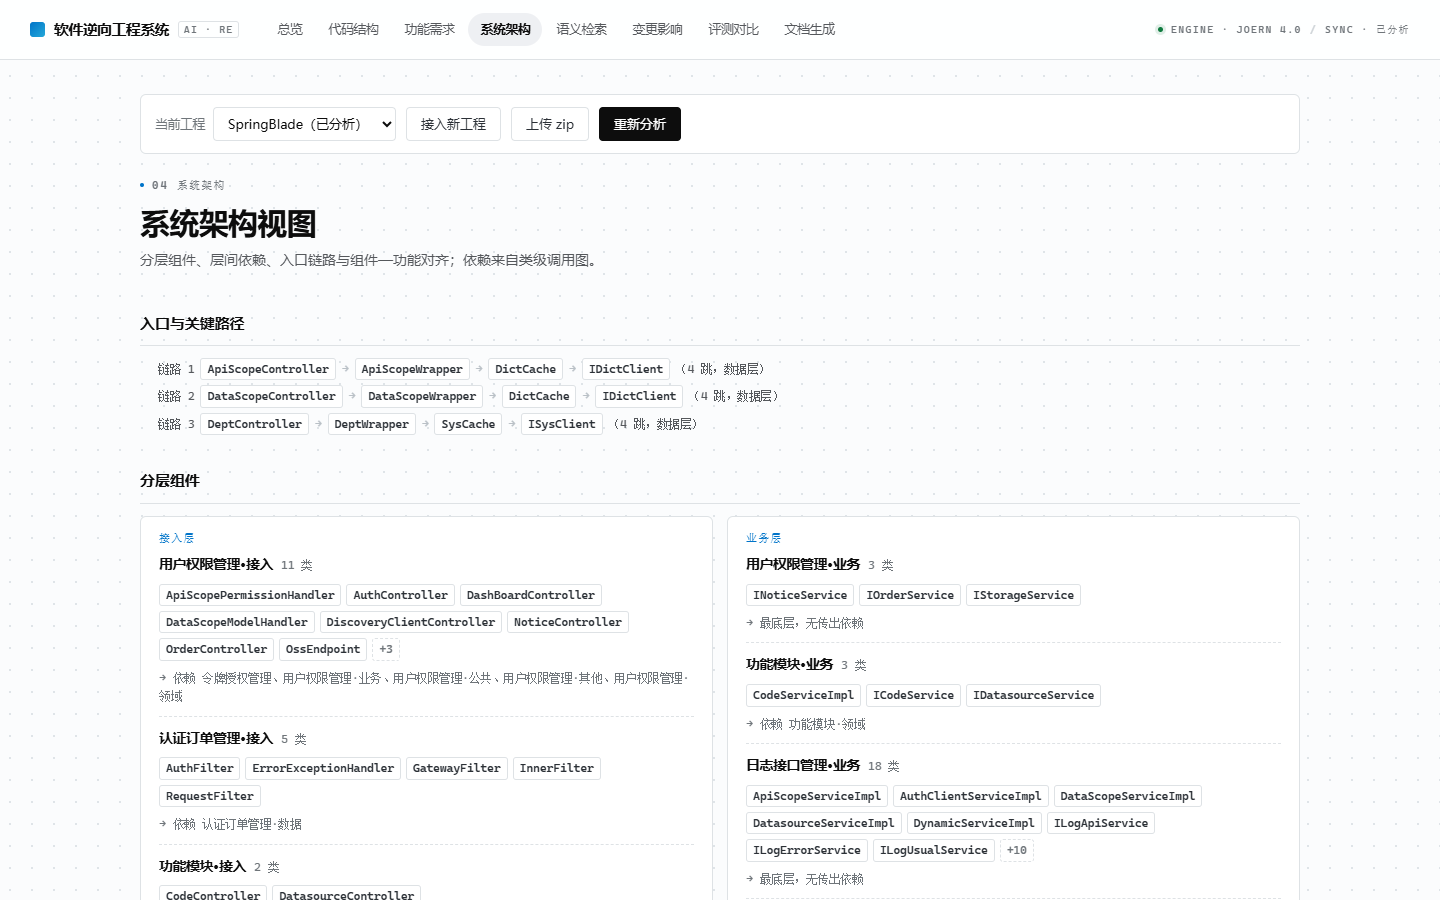
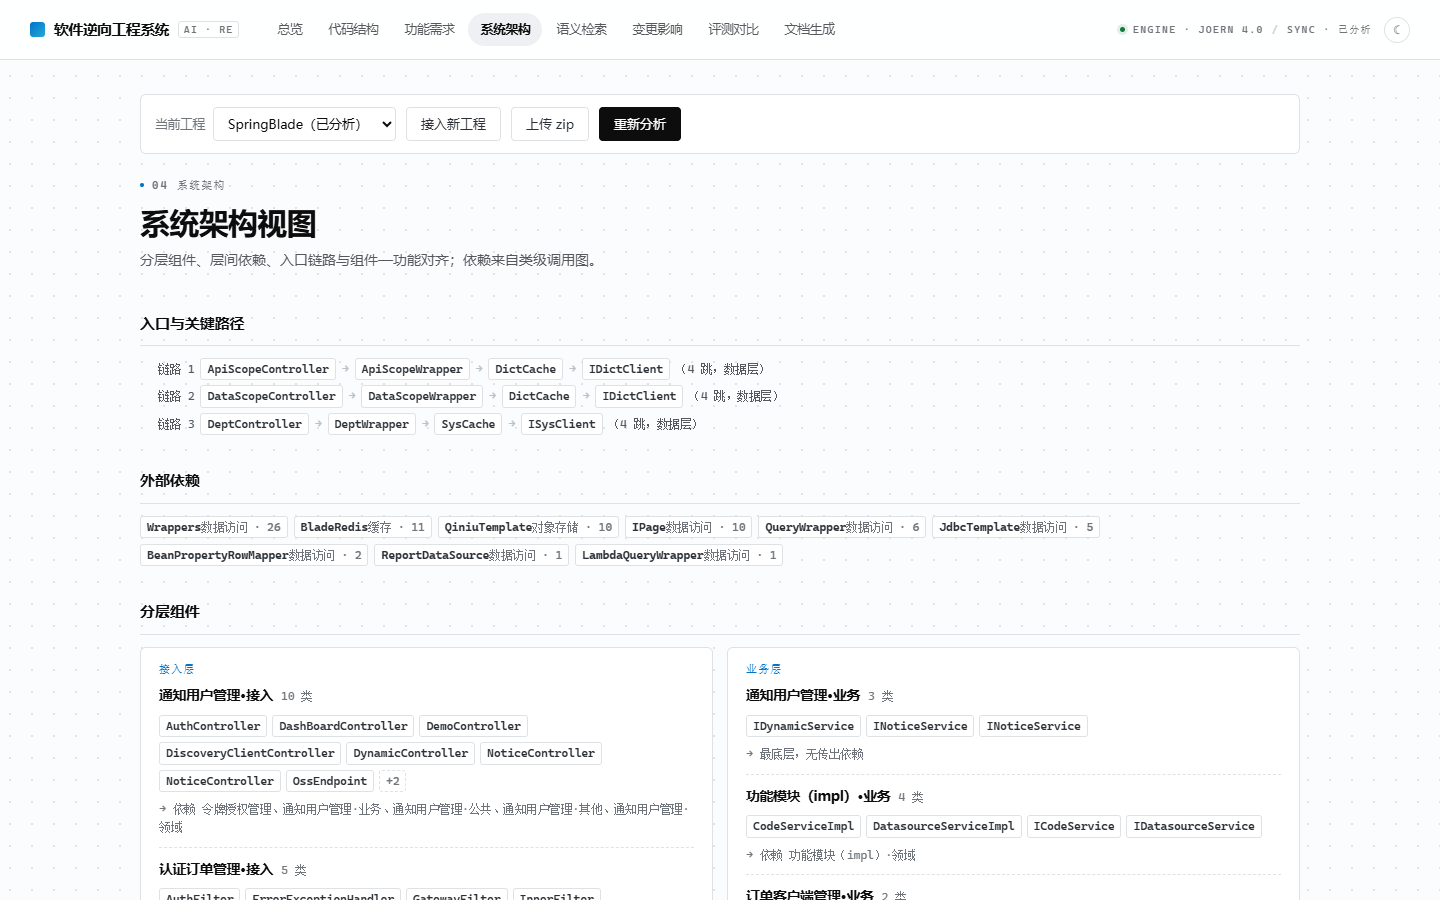
feat: 方法级变更影响、外部依赖识别、工具方法过滤
- impact 支持 ?method=，方法级只从该方法的调用方开始扩散，起点显示 类名.方法名
- externals 表 + _external_kind 按包名整段前缀归类（缓存/消息/对象存储/数据访问），架构页新增外部依赖区块
- 功能条目排除 *Util/*Utils/*Helper/*Constant 下的工具方法
- 文档与配图同步：README 接口表/前端说明/已知边界，设计文档能力表与 10.3/10.5 节，重拍 architecture.png、impact.png
- .gitignore 忽略截图工具的 *-report.json

diff --git a/demo/frontend/assets/app.js b/demo/frontend/assets/app.js
@@ -10,6 +10,7 @@ const state = {
   search: { q: '', mode: 'fusion' },
   graph: { op: 'callers', cls: 0, from: '', to: '' },
   impactClass: 0,
+  impactMethod: "",
   docId: 0,
   docKind: '',
   searchSel: 0,
@@ -610,6 +611,12 @@ async function renderArchitecture() {
       ${chain.map((node) => `<span class="chip">${esc(node.name)}</span>`).join('<span class="arrow">→</span>')}
       <span class="muted">（${chain.length} 跳，${esc(chain[chain.length - 1].layer)}）</span></li>`).join('');
 
+  const externals = data.externals || [];
+  const externalHtml = externals.length
+    ? `<p class="chips externals">${externals.map((x) =>
+        `<span class="chip"><b>${esc(x.name)}</b><em>${esc(x.kind)} · ${x.count}</em></span>`).join('')}</p>`
+    : `<p class="muted">没有识别到跨边界的外部依赖调用。</p>`;
+
   const matrix = data.matrix || { layers: [], cells: [] };
   const matrixHead = matrix.layers.map((name) => `<th>${esc(name.replace('层', ''))}</th>`).join('');
   const matrixRows = matrix.layers.map((name, i) => `
@@ -625,6 +632,8 @@ async function renderArchitecture() {
       <p class="muted">分层组件、层间依赖、入口链路与组件—功能对齐；依赖来自类级调用图。</p></div></section>
     <h2>入口与关键路径</h2>
     <ul class="plain chains">${entries || '<li class="muted">暂无关键路径</li>'}</ul>
+    <h2>外部依赖</h2>
+    ${externalHtml}
     <h2>分层组件</h2>
     <div class="layers">${cols || '<p class="muted">暂无架构视图</p>'}</div>
     <details class="fold">
@@ -847,14 +856,25 @@ async function renderImpact() {
     id: c.id, name: c.name, layer: c.layer, module: moduleName.get(c.module_id) || '',
   })));
   classes.sort((a, b) => (a.module + a.name).localeCompare(b.module + b.name, 'zh'));
+  // 类 → 方法名，供「方法级影响」下拉用；构造方法与编译器生成的方法不列
+  const methodsOf = new Map();
+  (structure.files || []).forEach((f) => (f.classes || []).forEach((c) => {
+    methodsOf.set(c.id, (c.methods || []).map((m) => m.name || '')
+      .filter((n) => n && !n.startsWith('<')).sort((a, b) => a.localeCompare(b)));
+  }));
   if (!state.impactClass && classes.length) {
     state.impactClass = data.project.impact_hot || classes[0].id;
   }
   const options = classes.map((c) =>
     `<option value="${c.id}" ${c.id === state.impactClass ? 'selected' : ''}>${esc(c.module)} / ${esc(c.name)}</option>`).join('');
-  let result = '<p class="muted">选一个类，看改动会波及哪些模块与功能。</p>';
+  let result = `<p class="muted">选一个类或方法，看改动会波及哪些模块与功能。</p>`;
+  const methodNames = methodsOf.get(state.impactClass) || [];
+  if (state.impactMethod && !methodNames.includes(state.impactMethod)) state.impactMethod = "";
+  const methodOptions = ["", ...methodNames].map((name) =>
+    `<option value="${esc(name)}" ${name === state.impactMethod ? "selected" : ""}>${name ? esc(name) : "全部方法（类级影响）"}</option>`).join("");
   if (state.impactClass) {
-    const r = await api(`/api/projects/${state.pid}/impact/${state.impactClass}`);
+    const query = state.impactMethod ? `?method=${encodeURIComponent(state.impactMethod)}` : "";
+    const r = await api(`/api/projects/${state.pid}/impact/${state.impactClass}${query}`);
     const hops = r.max_hop || 0;
     const byHop = Array.from({ length: hops + 1 }, () => []);
     (r.classes || []).forEach((c) => byHop[Math.min(c.hop || 0, hops)].push(c));
@@ -862,8 +882,8 @@ async function renderImpact() {
       <div class="hop-col origin">
         <p class="hop-head">起点 · 1 个类</p>
         <div class="hop-item"><b><a class="jump" href="#/structure?focus=${encodeURIComponent(r.origin.name)}"
-          title="在代码结构中定位">${esc(r.origin.name)}</a></b>
-          <small>${esc(r.origin.layer || '')}</small></div>
+          title="在代码结构中定位">${esc(r.origin.name)}${r.origin.method ? '.' + esc(r.origin.method) : ''}</a></b>
+          <small>${esc(r.origin.layer || '')}${r.origin.method ? ' · 方法级' : ''}</small></div>
       </div>` + (hops === 0
       ? '<div class="hop-col"><p class="hop-head">无调用方</p><div class="hop-item"><small>没有类调用它，改动只影响自身。</small></div></div>'
       : byHop.slice(1).map((list, i) => `
@@ -896,10 +916,19 @@ async function renderImpact() {
   draw(`
     <section class="head"><div><h1>变更影响分析</h1>
       <p class="muted">沿调用图反向查找：改这个类，哪些类、模块与功能要一起验证。</p></div></section>
-    <div class="form-panel inline"><label>起点类<select id="impact-select">${options}</select></label></div>
+    <div class="form-panel inline">
+      <label>起点类<select id="impact-select">${options}</select></label>
+      <label>方法<select id="impact-method">${methodOptions}</select></label>
+    </div>
     ${result}`);
   const sel = document.getElementById('impact-select');
-  if (sel) sel.onchange = (e) => { state.impactClass = Number(e.target.value); renderImpact(); };
+  if (sel) sel.onchange = (e) => {
+    state.impactClass = Number(e.target.value);
+    state.impactMethod = "";
+    renderImpact();
+  };
+  const methodSel = document.getElementById('impact-method');
+  if (methodSel) methodSel.onchange = (e) => { state.impactMethod = e.target.value; renderImpact(); };
 }
 
 /* ------------------------------------------------------------------ 视图：对比 */

diff --git a/demo/frontend/assets/style.css b/demo/frontend/assets/style.css
@@ -626,3 +626,8 @@ details.hl > summary { border-radius: 3px; }
 .fields { display: flex; flex-wrap: wrap; gap: 6px; margin: 2px 0 10px 18px; }
 .chip.field { color: var(--muted); }
 .chip.field b { color: var(--ink); font-weight: 600; }
+
+/* 外部依赖 chip：名字 + 类型与次数 */
+.chips.externals { margin: 2px 0 6px; }
+.chips.externals .chip { gap: 6px; }
+.chips.externals .chip em { font-style: normal; color: var(--faint); }

diff --git a/demo/backend/app/core/pipeline.py b/demo/backend/app/core/pipeline.py
@@ -16,6 +16,8 @@ DEP_WEIGHT = 0.4
 
 LAYER_RANK = {"接入层": 0, "业务层": 1, "数据层": 2, "公共层": 3, "领域层": 4, "其他": 5}
 GENERIC_LABELS = {"处理", "列出", "保存", "更新", "查询", "删除", "添加", "查看", "设置"}
+# 工具类里的方法不算「功能条目」：简介要求过滤访问器与工具方法
+TOOL_CLASS_RE = re.compile(r"(Util|Utils|Helper|Constant|Constants)$")
 STEP_PERCENT = {
     "": 0, "扫描源码": 8, "解析结构": 26, "解析调用": 42, "社区发现": 58,
     "归纳功能": 70, "恢复架构": 82, "计算指标": 92, "导出代码属性图": 97, "完成": 100,
@@ -78,6 +80,15 @@ def _store_structure(pid):
     db.execute_many("INSERT INTO calls(project_id, caller_id, callee_name, qualifier, line) "
                     "VALUES(?,?,?,?,?)", call_rows)
     _resolve_calls(pid)
+    # 解析不到、但能看出是基础设施的调用，记为外部依赖
+    external_rows = []
+    for row in db.query("SELECT callee_name, qualifier FROM calls WHERE project_id=? "
+                        "AND callee_id IS NULL", (pid,)):
+        token = row["qualifier"] or row["callee_name"]
+        kind = _external_kind(token)
+        if kind != "第三方库":
+            external_rows.append((token, kind))
+    _store_externals(pid, external_rows)
     return len(class_rows), len(rows), len(call_rows)
 
 
@@ -312,7 +323,8 @@ def _store_functions(pid):
             "WHERE m.project_id=? AND c.module_id=?", (pid, module["id"]))
         candidates = [m for m in methods
                       if m["is_public"] and not _is_accessor(m)
-                      and not (m["name"] or "").startswith("<")]
+                      and not (m["name"] or "").startswith("<")
+                      and not TOOL_CLASS_RE.search(m["class_name"])]
         candidates.sort(key=lambda m: (LAYER_RANK.get(m["layer"], 9), len(m["name"]), m["id"]))
         for method in candidates[:8]:
             ranked.append({"module": module, "method": method})
@@ -560,18 +572,60 @@ def _store_joern(pid, data, docs=None):
                     "VALUES(?,?,?,?,?,?,?,?,?,?,?,?,?)", method_rows)
 
     call_rows = []
+    external_rows = []
     for call in data["calls"]:
         caller = full_index.get(_class_full_name(call["caller"]))
         if not caller:
             continue
         callee = full_index.get(_class_full_name(call["callee"]))
         call_rows.append((pid, caller, call["name"], callee, call["line"]))
+        if callee is None:
+            raw = call.get("callee") or ""
+            simple = _class_full_name(raw).rsplit(".", 1)[-1]
+            if simple and not simple.startswith("<") and simple not in full_index:
+                kind = _external_kind(raw)
+                if kind != "第三方库":  # 只留能归类的基础设施调用，JDK 类型不算外部依赖
+                    external_rows.append((simple, kind))
     db.execute_many("INSERT INTO calls(project_id, caller_id, callee_name, callee_id, line) "
                     "VALUES(?,?,?,?,?)", call_rows)
+    _store_externals(pid, external_rows)
 
     counts = data["counts"]
     edges = data["edges"]
     return len(rows), len(method_rows), len(call_rows)
+
+
+EXTERNAL_KINDS = (
+    (("redis", "lettuce", "jedis"), "缓存"),
+    (("kafka", "rabbit", "rocketmq", "amqp", "pulsar", "mq"), "消息"),
+    (("feign", "ribbon", "httpclient", "resttemplate", "okhttp", "webclient"), "远程调用"),
+    (("oss", "minio", "s3", "cos", "obs"), "对象存储"),
+    (("mail", "sms", "push"), "通知"),
+    (("mybatis", "mapper", "jdbc", "datasource", "sqlsession"), "数据访问"),
+)
+
+
+def _external_kind(text):
+    """按包名/类名的整段前缀判断，避免 nacos 里的 cos、constant 里的 st 之类的误命中。"""
+    parts = re.split(r"[.\s:/()<>\[\],$]+", (text or "").lower())
+    for tokens, kind in EXTERNAL_KINDS:
+        for token in tokens:
+            if any(part == token or part.startswith(token) for part in parts):
+                return kind
+    return "第三方库"
+
+
+def _store_externals(pid, rows):
+    """rows: [(name, kind)]，按名字聚合计数后入库。"""
+    if not rows:
+        return
+    counter = {}
+    for name, kind in rows:
+        key = (name, kind)
+        counter[key] = counter.get(key, 0) + 1
+    values = [(pid, name, kind, count) for (name, kind), count in
+              sorted(counter.items(), key=lambda item: -item[1])[:40]]
+    db.execute_many("INSERT INTO externals(project_id, name, kind, count) VALUES(?,?,?,?)", values)
 
 
 def _store_fields(pid, scan):

diff --git a/demo/backend/app/core/codegraph.py b/demo/backend/app/core/codegraph.py
@@ -527,8 +527,12 @@ def _in_degree(by_id, out_edges):
     return degree
 
 
-def impact(pid, class_id):
-    """沿调用图反向 BFS：谁调用了它，谁又调用了那些人。"""
+def impact(pid, class_id, method=None):
+    """沿调用图反向 BFS：谁调用了它，谁又调用了那些人。
+
+    给了 method 时，第一跳只保留「确实调用了这个方法」的类；再往上仍按类级调用扩散
+    （调用表只记到类，方法级再往上的精度并不存在）。
+    """
     classes = db.query("SELECT id, name, layer, module_id FROM classes WHERE project_id=?", (pid,))
     by_id = {row["id"]: row for row in classes}
     if class_id not in by_id:
@@ -543,6 +547,18 @@ def impact(pid, class_id):
     dist = {class_id: 0}
     parent = {}
     queue = [class_id]
+    if method:
+        first = [row["caller_id"] for row in db.query(
+            "SELECT DISTINCT caller_id FROM calls WHERE project_id=? AND callee_id=? "
+            "AND callee_name=?", (pid, class_id, method))]
+        queue = []
+        for caller in sorted(set(first)):
+            if caller in seen:
+                continue
+            seen.add(caller)
+            dist[caller] = 1
+            parent[caller] = class_id
+            queue.append(caller)
     while queue:
         current = queue.pop(0)
         for caller in sorted(reverse.get(current, ())):
@@ -579,7 +595,8 @@ def impact(pid, class_id):
         chains.append([node(n) for n in path])
 
     return {
-        "origin": {"id": origin["id"], "name": origin["name"], "layer": origin["layer"]},
+        "origin": {"id": origin["id"], "name": origin["name"], "layer": origin["layer"],
+                   "method": method or ""},
         "classes": [{**node(n), "hop": dist[n]} for n in sorted(seen, key=lambda x: (dist[x], x))],
         "chains": chains,
         "max_hop": max(dist.values()) if dist else 0,

diff --git a/demo/backend/app/services.py b/demo/backend/app/services.py
@@ -193,7 +193,11 @@ def architecture(pid):
     return {"layers": ordered,
             "matrix": _layer_matrix(pid),
             "component_functions": _component_functions(pid),
-            "entries": codegraph.critical_paths(pid, limit=3)}
+            "entries": codegraph.critical_paths(pid, limit=3),
+            "externals": [{"name": row["name"], "kind": row["kind"], "count": row["count"]}
+                          for row in db.query(
+                              "SELECT name, kind, count FROM externals WHERE project_id=? "
+                              "ORDER BY count DESC LIMIT 10", (pid,))]}
 
 
 def _layer_matrix(pid):
@@ -296,9 +300,9 @@ def search(pid, query, mode="bm25", k=10):
     return retrieve.search(pid, query, mode=mode, k=k)
 
 
-def impact(pid, class_id):
+def impact(pid, class_id, method=None):
     _project(pid)
-    result = codegraph.impact(pid, int(class_id))
+    result = codegraph.impact(pid, int(class_id), method or None)
     if not result:
         raise NotFound("类 %s 不存在" % class_id)
     return result

diff --git a/demo/backend/app/db.py b/demo/backend/app/db.py
@@ -87,6 +87,14 @@ CREATE TABLE IF NOT EXISTS fields (
     doc        TEXT DEFAULT ''
 );
 
+CREATE TABLE IF NOT EXISTS externals (
+    id         INTEGER PRIMARY KEY AUTOINCREMENT,
+    project_id INTEGER NOT NULL,
+    name       TEXT NOT NULL,
+    kind       TEXT DEFAULT '',
+    count      INTEGER DEFAULT 0
+);
+
 CREATE TABLE IF NOT EXISTS calls (
     id          INTEGER PRIMARY KEY AUTOINCREMENT,
     project_id  INTEGER NOT NULL,
@@ -254,7 +262,7 @@ def list_projects():
 
 def clear_project(pid):
     """重新分析前清空分析结果，工程本身保留。"""
-    for table in ("calls", "fields", "methods", "classes", "modules", "functions", "components",
+    for table in ("calls", "fields", "externals", "methods", "classes", "modules", "functions", "components",
                   "documents", "metrics", "files"):
         execute("DELETE FROM %s WHERE project_id=?" % table, (pid,))
 

diff --git a/demo/backend/app/routers/analysis.py b/demo/backend/app/routers/analysis.py
@@ -33,5 +33,5 @@ def compare(pid: int):
 
 
 @router.get("/impact/{class_id}")
-def impact(pid: int, class_id: int):
-    return services.impact(pid, class_id)
+def impact(pid: int, class_id: int, method: str = ""):
+    return services.impact(pid, class_id, method or None)

diff --git a/demo/README.md b/demo/README.md
@@ -96,11 +96,11 @@ demo/
 | GET | `/api/projects/{pid}/overview` | 指标、构建方式/语言构成、模块划分、产物计数 |
 | GET | `/api/projects/{pid}/structure` | 文件（分类）→ 类 → 方法（分支/循环/捕获）→ 调用点 |
 | GET | `/api/projects/{pid}/functions` | 功能树（一级模块 + 二级条目） |
-| GET | `/api/projects/{pid}/architecture` | 分层组件、层间依赖矩阵、组件—功能映射、入口关键路径 |
+| GET | `/api/projects/{pid}/architecture` | 分层组件、层间依赖矩阵、组件—功能映射、入口关键路径、外部依赖 |
 | GET | `/api/projects/{pid}/compare` | 模块度、NMI、检索评测 |
 | GET | `/api/projects/{pid}/search?q=&mode=&k=` | `mode=bm25\|keyword\|vector\|fusion` |
 | GET | `/api/projects/{pid}/graph?op=callers\|callees\|path&class=&from=&to=` | 知识库图查询：谁调用它 / 它调用谁 / 两类间最短调用链 |
-| GET | `/api/projects/{pid}/impact/{class_id}` | 变更影响：类 → 模块 → 功能 |
+| GET | `/api/projects/{pid}/impact/{class_id}?method=` | 变更影响：类 → 模块 → 功能；给 `method` 时先只看该方法的调用方 |
 | GET | `/api/projects/{pid}/documents` | 文档列表 |
 | GET | `/api/projects/{pid}/documents/{doc_id}` | 单篇（`html` 为渲染结果） |
 | GET | `/api/projects/{pid}/documents/{doc_id}/export` | 导出 Markdown 附件 |
@@ -154,7 +154,9 @@ demo/
   跳到下方调用链查询；顶部显示命中条数与当前模式，提供「登录 / 订单 / 菜单 / 令牌 / 用户 / 租户」快捷查询；
   未输入时按工程规模给默认查询（小工程「加入购物车」、大工程「登录」）。
 - **系统架构**：分层组件在上，层间依赖矩阵与组件—功能对齐收进两个折叠块，页面高度减半；组件里的类 chip
-  默认显示 8 个，其余折成 `+N` 就地展开。
+  默认显示 8 个，其余折成 `+N` 就地展开；「外部依赖」区块把缓存、消息、对象存储、数据访问库按类型与调用次数列出。
+- **变更影响**：起点可选类或**方法**——选方法时只从该方法的调用方开始扩散；页面上是四个大数字
+  （受影响类 / 波及模块 / 涉及功能 / 最大跳数）、按跳数分栏的扩散视图，以及从最深目标回溯出的示例影响链。
 - **交叉跳转**：功能条目名、影响页的类名、检索详情的类名都可点，跳到结构页并自动过滤、展开、滚动定位到那个类
   （`#/structure?focus=Class.method`，类行高亮 2 秒）。
 - **失败重试**：视图加载出错时给「重试」（只重跑当前视图）与「刷新页面」两个选项。
@@ -193,7 +195,10 @@ LLM_MODEL=gpt-4o-mini
   接口按向量检索的形状写，接入真实 embedding 时替换 `_build_vectors` / `_vector_scores`；
 - 检索评测的查询集由功能条目构造，融合通道会经「功能条目 → 证据方法」一跳，因此在该集合上领先；
   换成人写提问，各通道差距会收窄；SpringBlade 这类注释稀疏的工程里，方法文档会用方法名推的中文
-  别名补全，检索指标因此比带 javadoc 的工程低（83 条查询：融合 51.8%、关键词 48.2%、向量 39.8%、BM25 38.6%）；
+  别名补全，检索指标因此比带 javadoc 的工程低（73 条查询：融合 65.8%、关键词 50.7%、向量 35.6%、BM25 32.9%）；
+- 外部依赖按包名/类名的整段前缀归类（缓存、消息、对象存储、数据访问等），是启发式规则，
+  第三方通用库会被归到「数据访问」或直接忽略；工具类（`*Util/*Utils/*Helper/*Constant`）下的方法
+  不计入功能条目，因此工具类的方法不会出现在功能树里；
 - Git 接入是「克隆 / 拉取」级别的增量，不做提交级差分；
 - 检索索引按「计数 + 最大行号」判过期：在别的进程里重跑分析后，服务端下一次检索会自动重建，
   不需要重启；`/api/projects/{id}/status` 的 `index_stale` 会给出当前状态；

diff --git a/demo/docs/系统框架设计.md b/demo/docs/系统框架设计.md
@@ -167,10 +167,10 @@ POST /analyze → status=running
 | 图查询（实体、调用链、依赖路径） | 已实现 | `GET /graph?op=callers\|callees\|path` |
 | 向量检索 | 已实现（稀疏词项向量） | `retrieve._build_vectors/_vector_scores`，模式 `vector` |
 | 社区发现 + 大模型命名 | 已实现（模型可选） | `codegraph` + `knowledge` |
-| 功能树 + 证据挂接 | 已实现 | `functions` 表 |
-| 分层、耦合热点、关键路径 | 已实现 | `codegraph.guess_layer/critical_paths` |
+| 功能树 + 证据挂接（过滤访问器与工具方法） | 已实现 | `functions` 表、`pipeline._is_accessor/TOOL_CLASS_RE` |
+| 分层、耦合热点、关键路径、外部依赖 | 已实现 | `codegraph.guess_layer/critical_paths`、`pipeline._store_externals` |
 | 组件—功能映射、依赖矩阵 | 已实现 | `services.architecture` |
-| 变更影响查询 | 已实现 | `codegraph.impact`、`/impact/{class_id}` |
+| 变更影响查询 | 已实现（类级与方法级） | `codegraph.impact(pid, class_id, method)`、`/impact/{class_id}?method=` |
 | 三类文档 + 导出 | 已实现 | `docs.generate`、`/export` |
 
 ## 8. 目录与代码预算
@@ -249,8 +249,9 @@ SpringBlade 实测：253 类 / 933 方法 / 4289 调用，属性图 38397 节点
 
 ### 10.3 系统架构
 
-入口与关键路径（从接入层入口出发的最长调用链）、分层组件（接入 / 业务 / 数据 / 领域 / 公共），
-层间依赖矩阵与组件—功能对齐放在可折叠区，避免长页。
+入口与关键路径（从接入层入口出发的最长调用链）、外部依赖（缓存 / 消息 / 对象存储 / 数据访问库，
+按名字与调用次数列出）、分层组件（接入 / 业务 / 数据 / 领域 / 公共），层间依赖矩阵与组件—功能对齐
+放在可折叠区，避免长页。
 
 ![系统架构](img/architecture.png)
 
@@ -263,8 +264,10 @@ SpringBlade 实测：253 类 / 933 方法 / 4289 调用，属性图 38397 节点
 
 ### 10.5 变更影响
 
-选一个起点类，按跳数分栏展示反向扩散（起点 → 1 跳 → 2 跳 …），给出示例影响链、
-波及模块与涉及功能；起点默认取被调用最多的类。
+起点可选类或方法：选到方法时只从该方法的调用方开始扩散（例如 `TokenUtil.decryptPassword` 只波及两个
+令牌生成器），不选方法则按类级调用关系扩散。页面按跳数分栏展示（起点 → 1 跳 → 2 跳 …），
+给出四个数字（受影响类 / 波及模块 / 涉及功能 / 最大跳数）与从最深目标回溯的示例影响链；
+类名可点，跳到代码结构页定位。起点默认取被调用最多的类。
 
 ![变更影响](img/impact.png)
 
